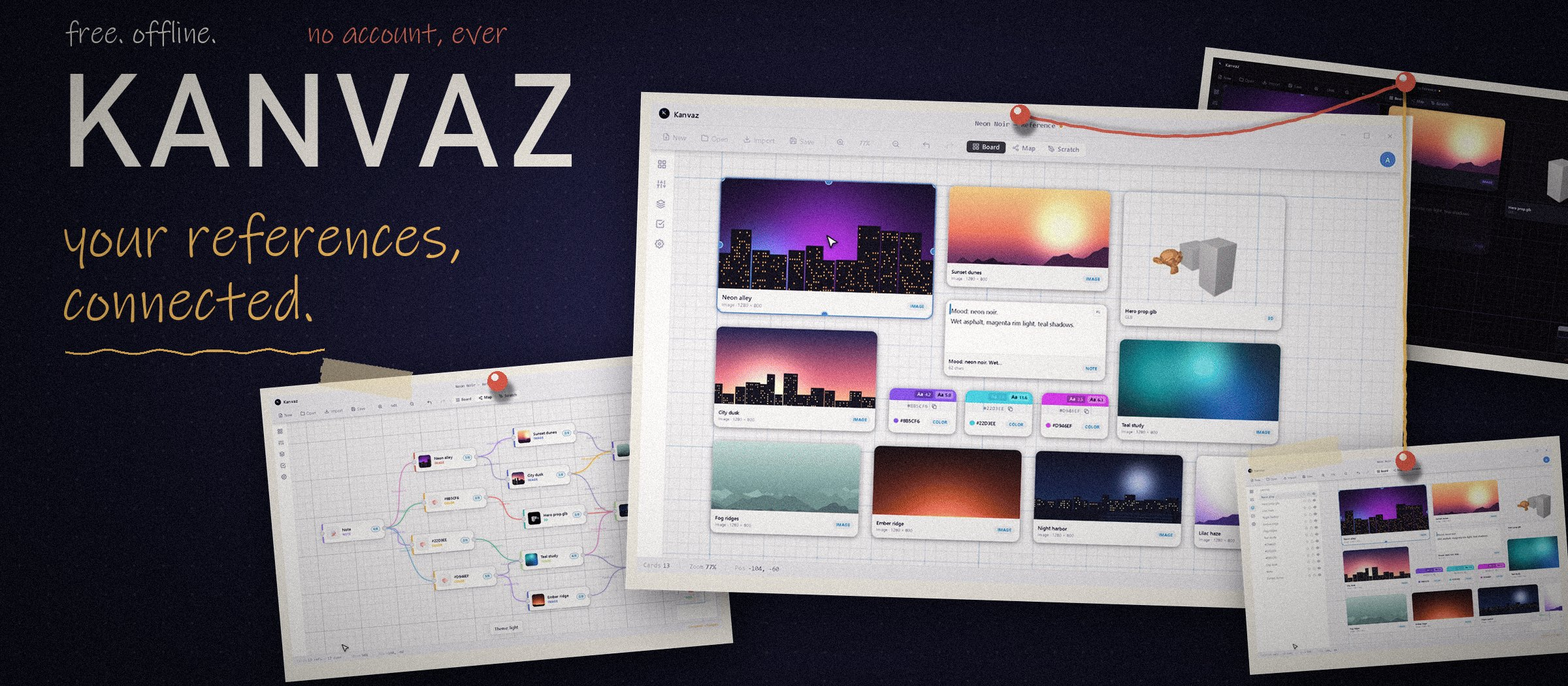
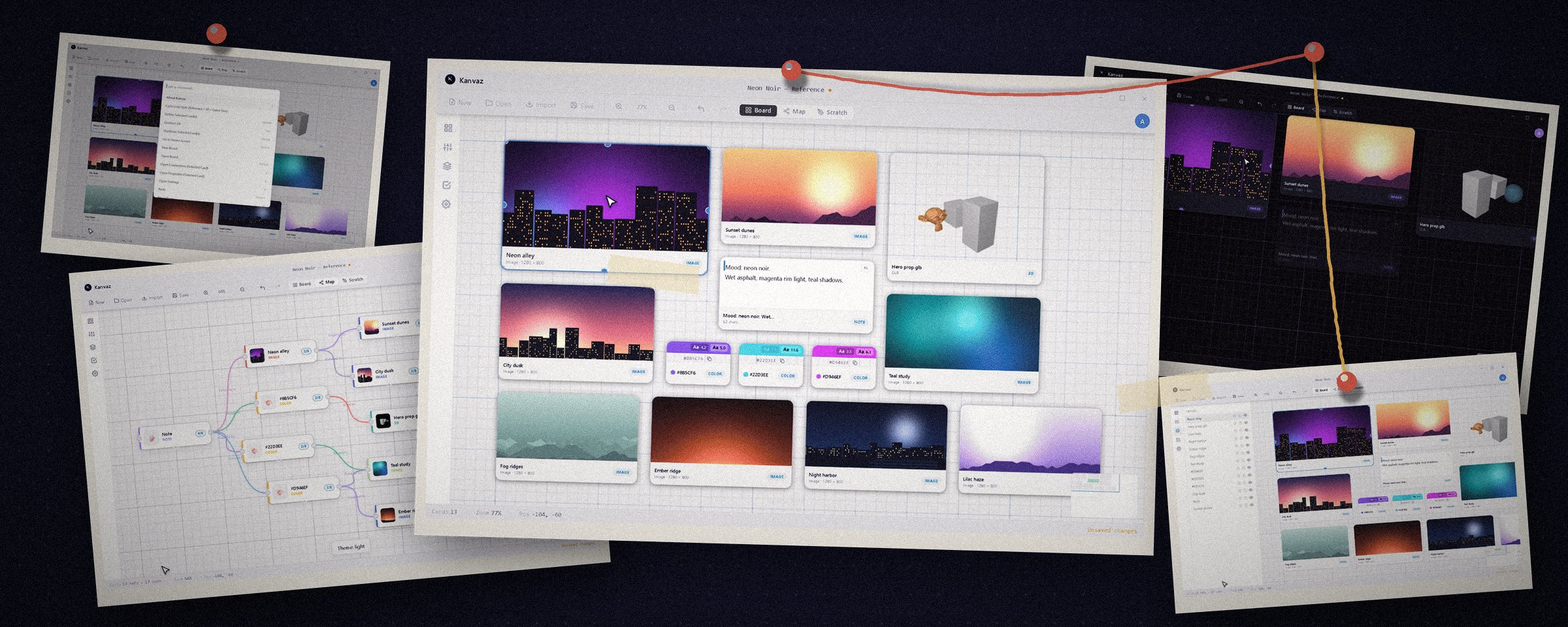
README: text-free hero wall, real HTML heading and SVG buttons (any device or theme), tidier badges

diff --git a/README.md b/README.md
@@ -1,25 +1,21 @@
 <p align="center">
-  <img src="assets/readme/hero.jpg" alt="Kanvaz: your references, connected. Screenshots of the board, Map View, Scratch Board and Task Tracker pinned up like prints on a reference wall." width="100%">
+  <img src="assets/readme/hero.jpg" alt="Kanvaz boards pinned up like prints on a reference wall: the main board with image, note, color and 3D cards, Map View, the Command Palette, a dark-theme board and the Layers panel." width="100%">
+</p>
+
+<h1 align="center">Kanvaz</h1>
+<p align="center"><b>Your references, connected.</b><br>A free, open-source, offline reference board for VFX and 3D artists.</p>
+
+<p align="center">
+  <a href="https://github.com/p4inz-code/kanvaz/releases/latest"><img src="assets/readme/btn-download.svg" alt="Download Kanvaz, free for Windows, macOS and Linux" width="260"></a>
+  <a href="https://p4inz-code.github.io/kanvaz/guide/"><img src="assets/readme/btn-guide.svg" alt="Read the user guide" width="260"></a>
+  <a href="https://discord.gg/8UKt8s5FbW"><img src="assets/readme/btn-discord.svg" alt="Join the Discord" width="260"></a>
 </p>
 
 <p align="center">
-  <a href="https://github.com/p4inz-code/kanvaz/releases/latest"><img src="https://img.shields.io/github/v/release/p4inz-code/kanvaz?style=flat-square&color=9D7FFF" alt="Release"></a>
-  <a href="https://github.com/p4inz-code/kanvaz/releases/latest"><img src="https://img.shields.io/github/downloads/p4inz-code/kanvaz/total?style=flat-square&color=4ECDC4&label=downloads" alt="Downloads"></a>
-  <a href="https://github.com/p4inz-code/kanvaz/stargazers"><img src="https://img.shields.io/github/stars/p4inz-code/kanvaz?style=flat-square&color=FFD700" alt="Stars"></a>
-  <a href="LICENSE"><img src="https://img.shields.io/github/license/p4inz-code/kanvaz?style=flat-square&color=FF6B6B" alt="License"></a>
-  <img src="https://img.shields.io/badge/platform-Windows%20%7C%20macOS%20%7C%20Linux-blue?style=flat-square" alt="Platform">
-  <img src="https://img.shields.io/badge/offline-100%25-green?style=flat-square" alt="Offline">
-</p>
-
-<p align="center">
-  <a href="https://github.com/p4inz-code/kanvaz/commits/main"><img src="https://img.shields.io/github/last-commit/p4inz-code/kanvaz?style=flat-square&color=9D7FFF&label=last%20commit" alt="Last commit"></a>
-  <a href="https://github.com/p4inz-code/kanvaz/commits/main"><img src="https://img.shields.io/github/commit-activity/m/p4inz-code/kanvaz?style=flat-square&color=9D7FFF&label=commits" alt="Commits per month"></a>
-</p>
-
-<p align="center">
-  <a href="https://github.com/p4inz-code/kanvaz/releases/latest"><img src="https://img.shields.io/badge/Download-free-9D7FFF?style=for-the-badge&logo=github&logoColor=white" alt="Download Kanvaz, it's free"></a>
-  <a href="https://p4inz-code.github.io/kanvaz/guide/"><img src="https://img.shields.io/badge/Read%20the-guide-4ECDC4?style=for-the-badge" alt="Read the user guide"></a>
-  <a href="https://discord.gg/8UKt8s5FbW"><img src="https://img.shields.io/badge/Join-Discord-5865F2?style=for-the-badge&logo=discord&logoColor=white" alt="Join the Discord"></a>
+  <a href="https://github.com/p4inz-code/kanvaz/releases/latest"><img src="https://img.shields.io/github/v/release/p4inz-code/kanvaz?style=flat-square&labelColor=1c1a30&color=f0b45e&label=release" alt="Latest release"></a>
+  <a href="https://github.com/p4inz-code/kanvaz/releases/latest"><img src="https://img.shields.io/github/downloads/p4inz-code/kanvaz/total?style=flat-square&labelColor=1c1a30&color=9d7fff&label=downloads" alt="Downloads"></a>
+  <a href="https://github.com/p4inz-code/kanvaz/stargazers"><img src="https://img.shields.io/github/stars/p4inz-code/kanvaz?style=flat-square&labelColor=1c1a30&color=3fc5b8&label=stars" alt="Stars"></a>
+  <a href="LICENSE"><img src="https://img.shields.io/github/license/p4inz-code/kanvaz?style=flat-square&labelColor=1c1a30&color=e86054&label=license" alt="MIT license"></a>
 </p>
 
 <p align="center"><img src="assets/readme/divider.svg" width="70%" alt=""></p>
